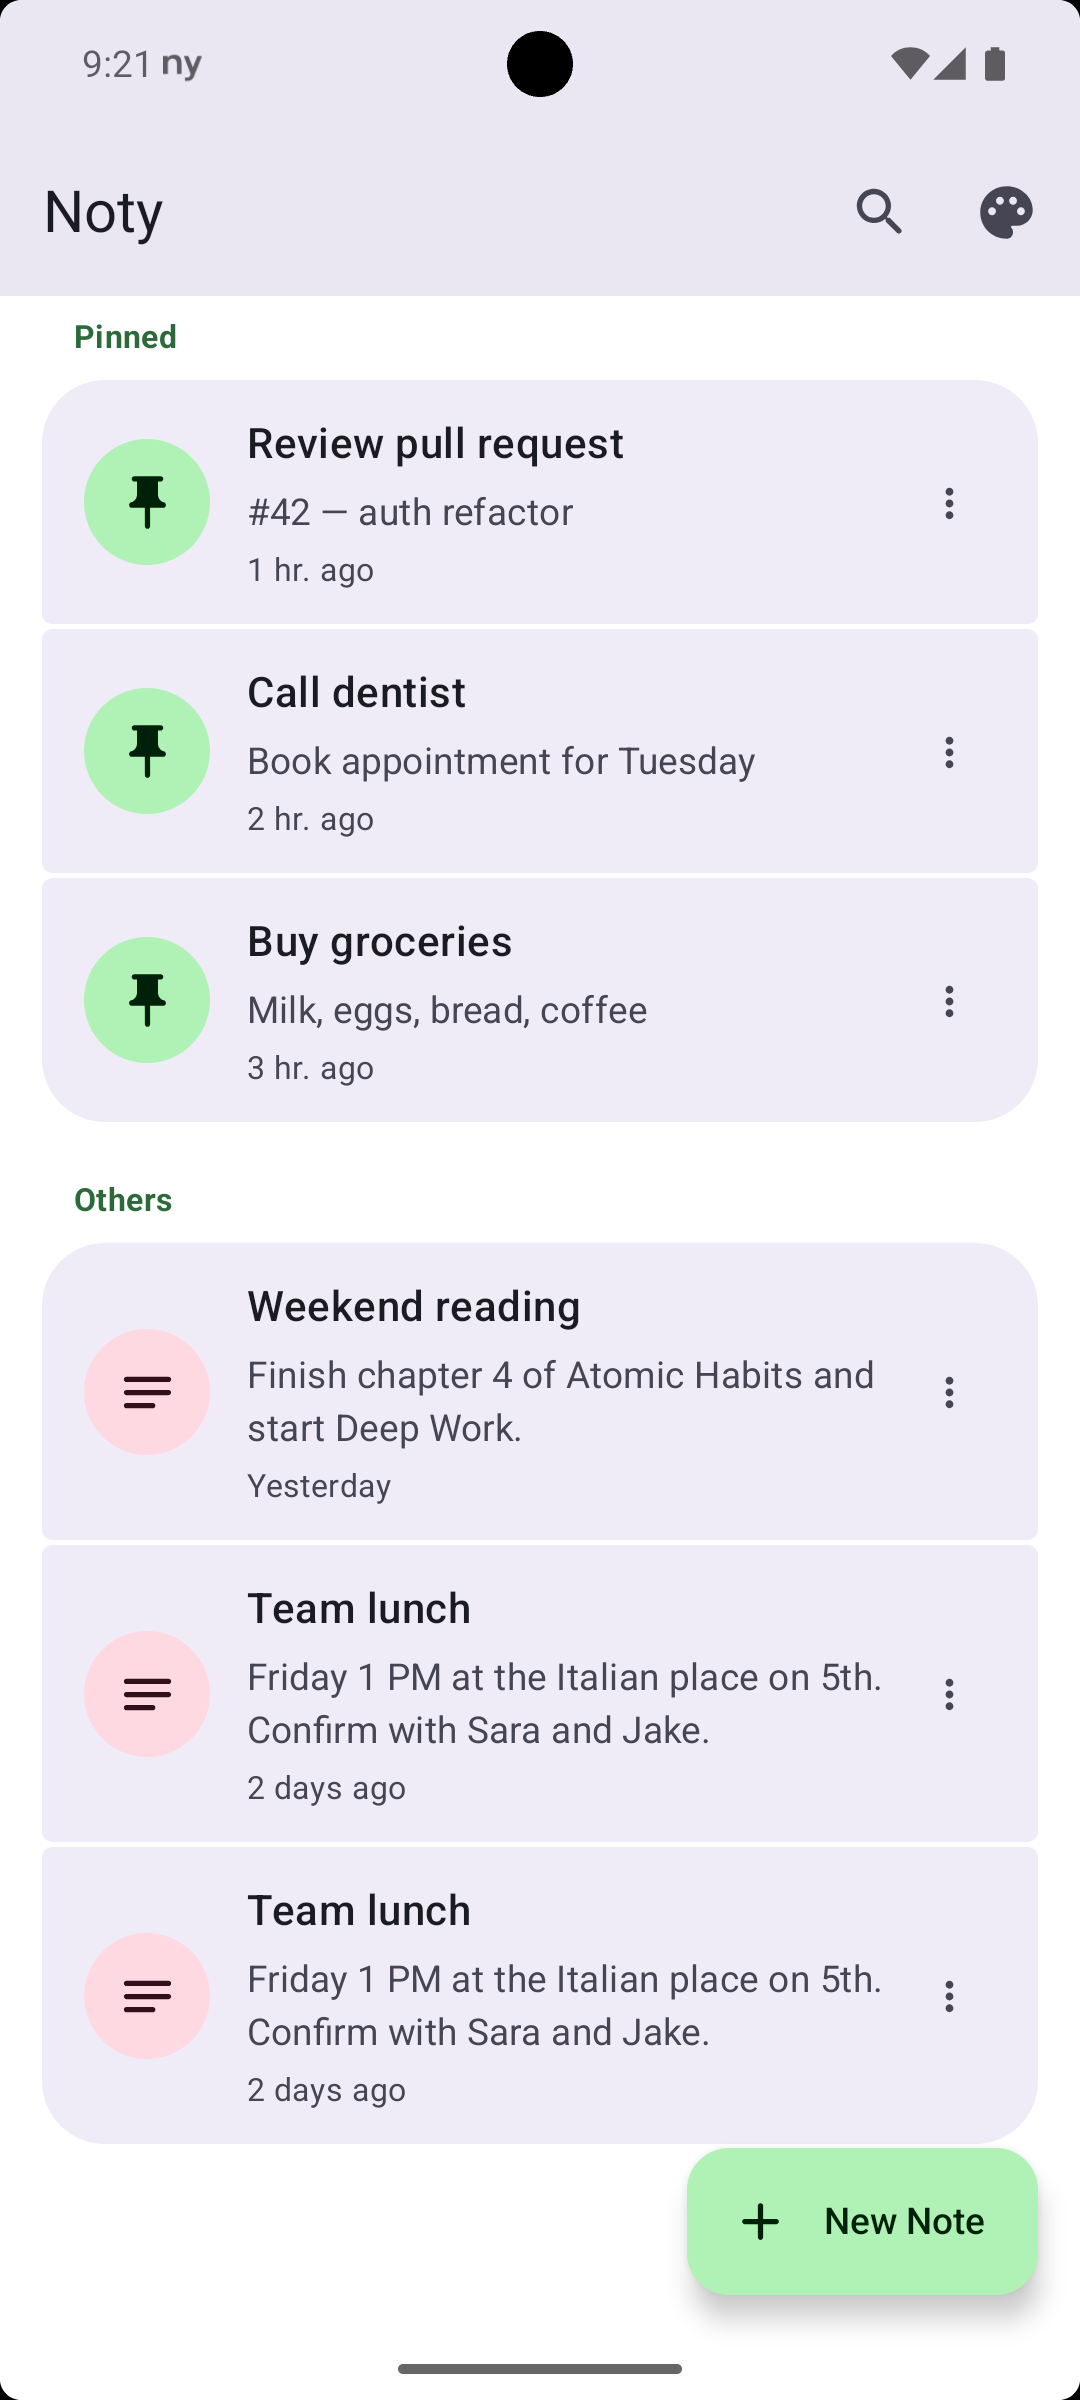
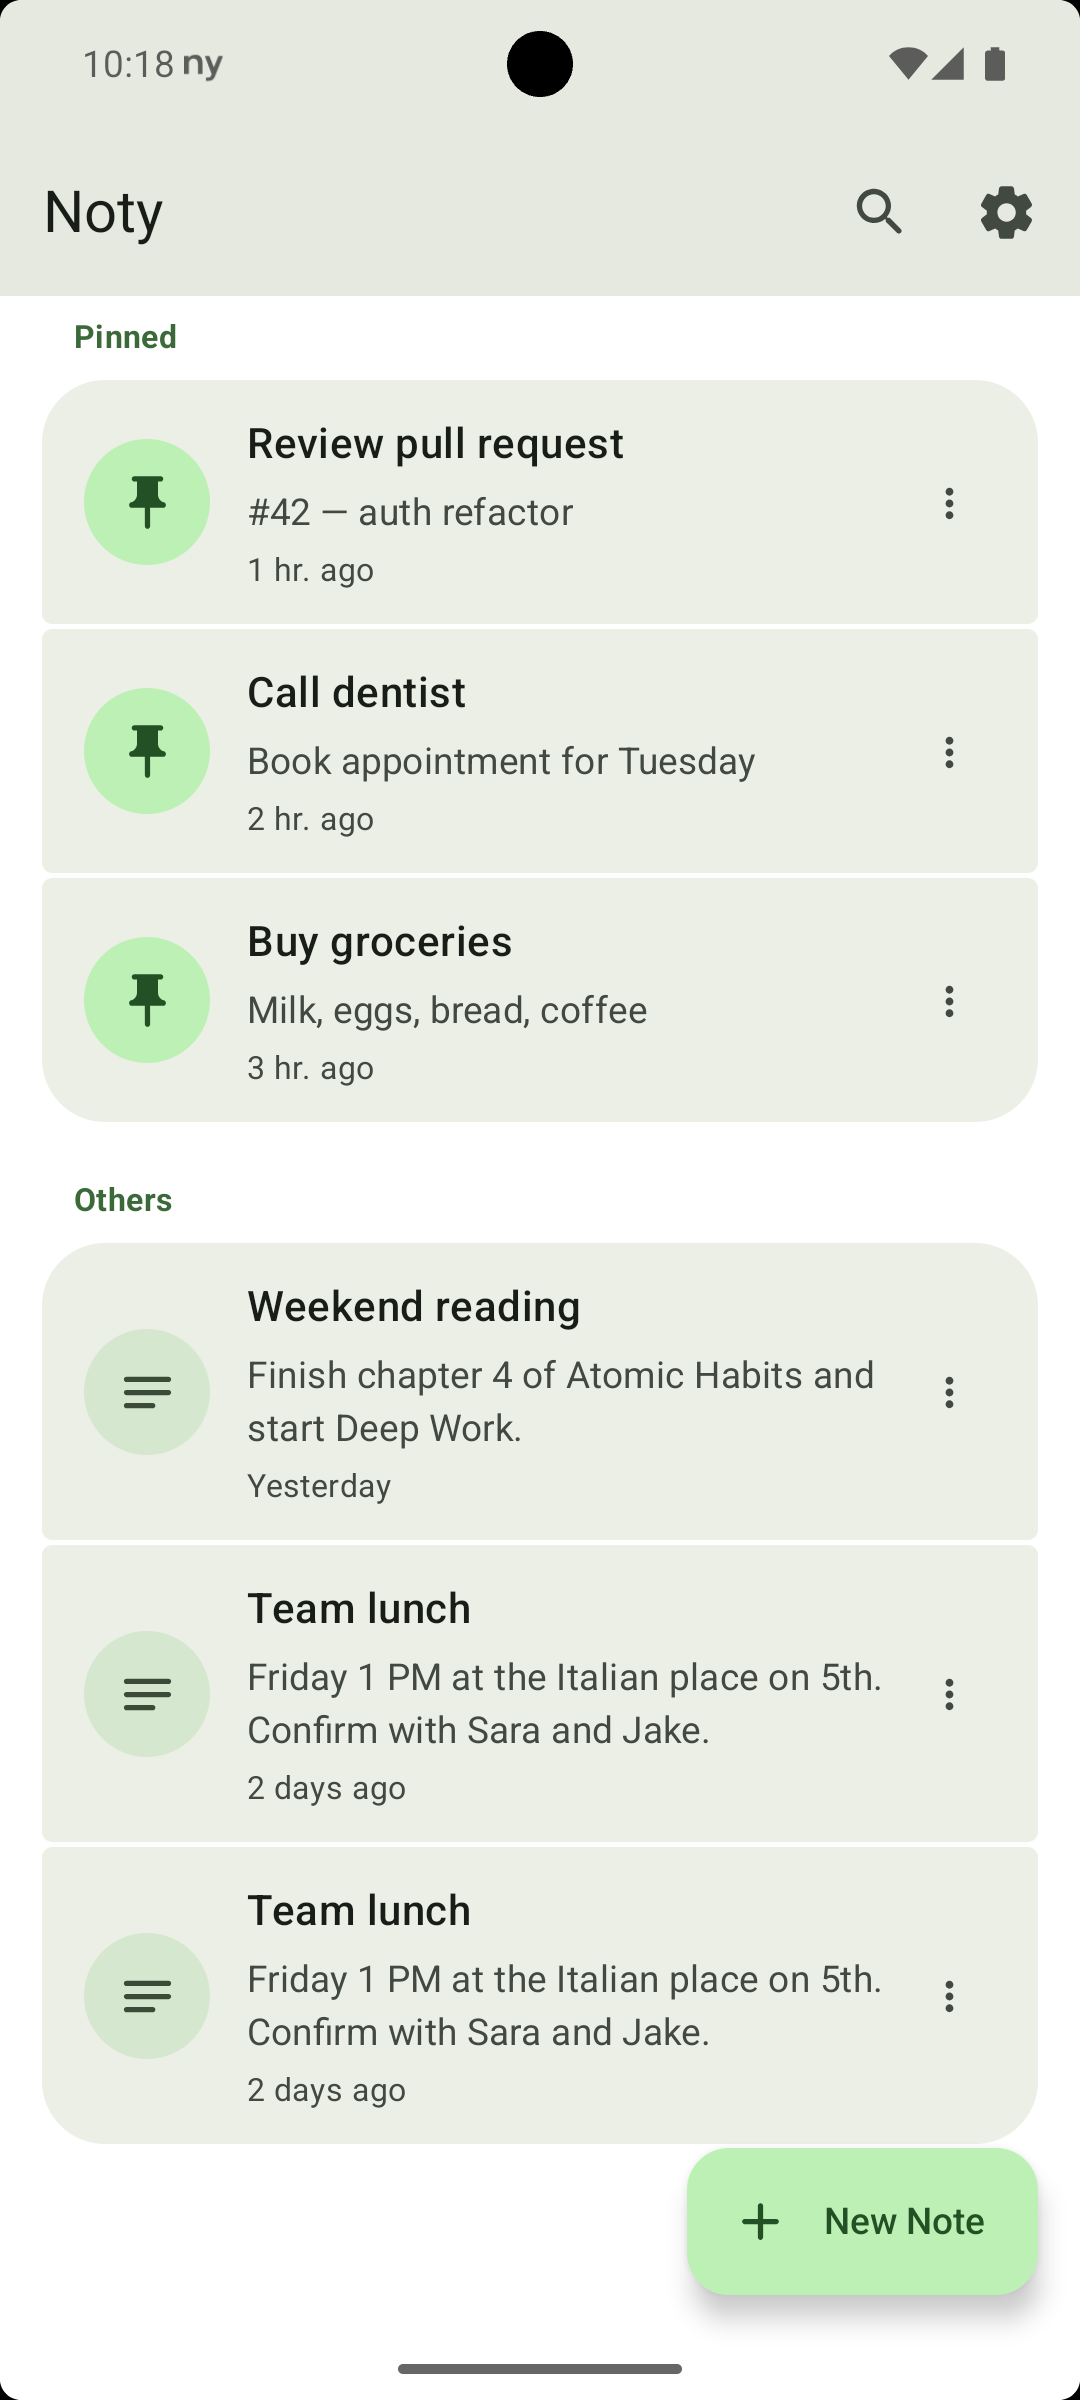
chore(release): v1.0.4 (#26)
* chore(release): v1.0.4

* docs: document reminders and settings, refresh screenshots

diff --git a/README.md b/README.md
@@ -18,6 +18,8 @@ A simple, privacy-focused notes app for Android that keeps your notes exactly wh
 - 📌 **Pin or Unpin Anytime** — Choose which notes appear as notifications; unpin a note and it moves back to the app without a notification
 - ⚡ **Quick Settings Tile** — Add a "Quick Note" tile to your Quick Settings panel to open the add-note screen
 - 🔍 **Search** — Filter notes by title or description
+- ⏰ **Reminders** — Set a one-time date and time reminder on any note and get notified right on time
+- ⚙ **Settings** — Choose your app theme, toggle dynamic color, and decide whether new notes start pinned
 - 🎨 **Material You** — Material 3 with dynamic color on Android 12+; Light, Dark, and System themes
 - 🔒 **100% Private** — No accounts, no cloud, no network access; your notes never leave your device
 
@@ -28,7 +30,7 @@ A simple, privacy-focused notes app for Android that keeps your notes exactly wh
   <img src="fastlane/metadata/android/en-US/images/phoneScreenshots/2.png" width="200" alt="Add note" />
   <img src="fastlane/metadata/android/en-US/images/phoneScreenshots/3.png" width="200" alt="Notes" />
   <img src="fastlane/metadata/android/en-US/images/phoneScreenshots/4.png" width="200" alt="Notifications" />
-  <img src="fastlane/metadata/android/en-US/images/phoneScreenshots/5.png" width="200" alt="Dark theme" />
+  <img src="fastlane/metadata/android/en-US/images/phoneScreenshots/5.png" width="200" alt="Settings" />
 </p>
 
 ## Download
@@ -50,8 +52,9 @@ Download the latest APK from the [Releases](https://github.com/usamaiqb/noty/rel
 Noty requests only the permissions it needs:
 
 - **POST_NOTIFICATIONS** — To show your notes as persistent notifications
-- **RECEIVE_BOOT_COMPLETED** — To restore notes after a phone restart
-- **FOREGROUND_SERVICE** — To keep notifications active in the background
+- **RECEIVE_BOOT_COMPLETED** — To restore notes and reschedule reminders after a phone restart
+- **FOREGROUND_SERVICE / FOREGROUND_SERVICE_DATA_SYNC** — To keep notifications active in the background
+- **SCHEDULE_EXACT_ALARM** — To deliver note reminders at the exact time you set
 
 No internet permission. No location. No data collection.
 

diff --git a/CHANGELOG.md b/CHANGELOG.md
@@ -1,3 +1,9 @@
+## [1.0.4] - 2026-09-25
+
+### Added
+- One-shot date/time reminders for notes, scheduled from the note editor, with exact-alarm delivery and permission handling
+- A Settings screen with theme selection (Light/Dark/System), dynamic color, and pin defaults
+
 ## [1.0.3] - 2026-09-01
 
 ### Added
